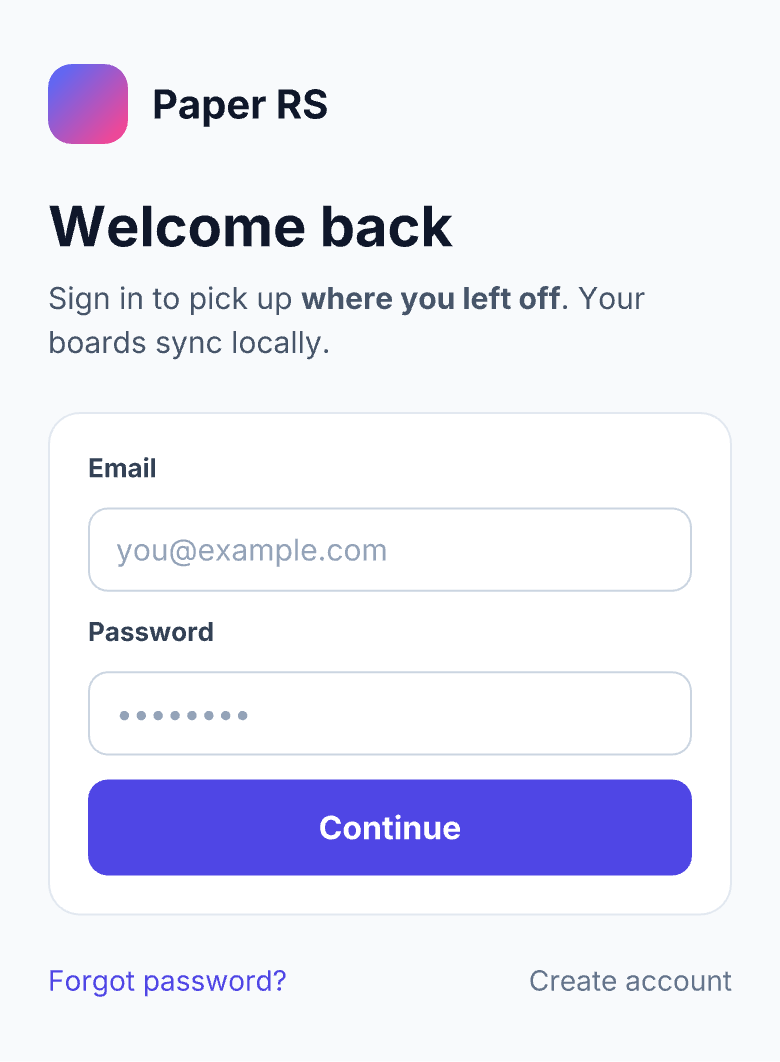
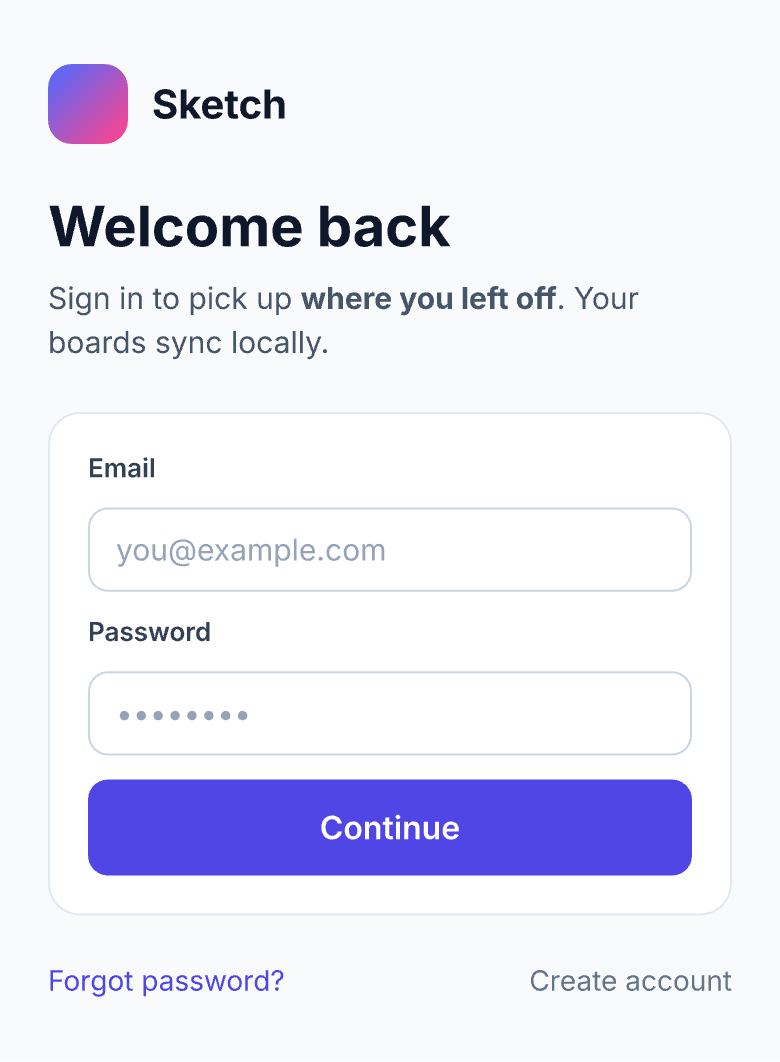
fix(mcp): leave the effect style off vector wrappers in JSX
get_jsx wraps a vector layer in a div around inline SVG. Naming the
style on that div made write_html bind the wrapper frame, which cast a
rectangular shadow, while the vector got none. Vectors export their
shadows as filter values again, without the style.

Refs #19

diff --git a/src/mcp/exec.rs b/src/mcp/exec.rs
@@ -2281,7 +2281,6 @@ fn jsx_node(
     show_token_vars(tokens, n, &mut st);
     // The effect properties carry the style as `var()`. If one of them holds values instead,
     // or none is written, `effectStyle` stays, which write_html takes as `effect-style`.
-    let effect_style = st.get(EFFECT_STYLE_TYPE).cloned();
     let style_var = |v: &Value| {
         let name = (v.as_str()).and_then(|s| s.strip_prefix("var(")?.strip_suffix(')'));
         name.is_some_and(|n| tokens.effect_style_by_var(n).is_some())
@@ -2387,10 +2386,6 @@ fn jsx_node(
             // A box shadow here would be the shadow of the element's box, not of the shape.
             if let Some(f) = css::shape_filter_css(n, |i, c| shadow_color(tokens, n, i, c)) {
                 pos.insert("filter".into(), json!(f));
-            }
-            // The shape's own `filter` holds values, so the style goes by name.
-            if let Some(s) = effect_style {
-                pos.insert(EFFECT_STYLE_TYPE.into(), s);
             }
             out.push_str(&format!(
                 "{ind}<div data-name=\"{name}\" style={}>{}</div>\n",

diff --git a/src/mcp/tools.rs b/src/mcp/tools.rs
@@ -877,7 +877,8 @@ layer the whole list with box-shadow: var(--elevation-2) in write_html (text-sha
 --elevation-2-blur for filter and --elevation-2-backdrop-blur for backdrop-filter; any of the
 three applies the style. get_computed_styles shows effectStyle and the variables, and get_jsx
 writes the variables, or effectStyle where no variable fits (text whose style has spread or
-inset shadows, and vector shapes); write_html takes that as effect-style. effectStyle wins over
+inset shadows); write_html takes that as effect-style. Vector shapes export as inline SVG with
+their shadows as filter values, without the style. effectStyle wins over
 shadow and blur values set beside it. Setting a shadow or blur by value without it detaches the
 style and keeps the rest.
 Editing a style in the app updates every layer that uses it.
